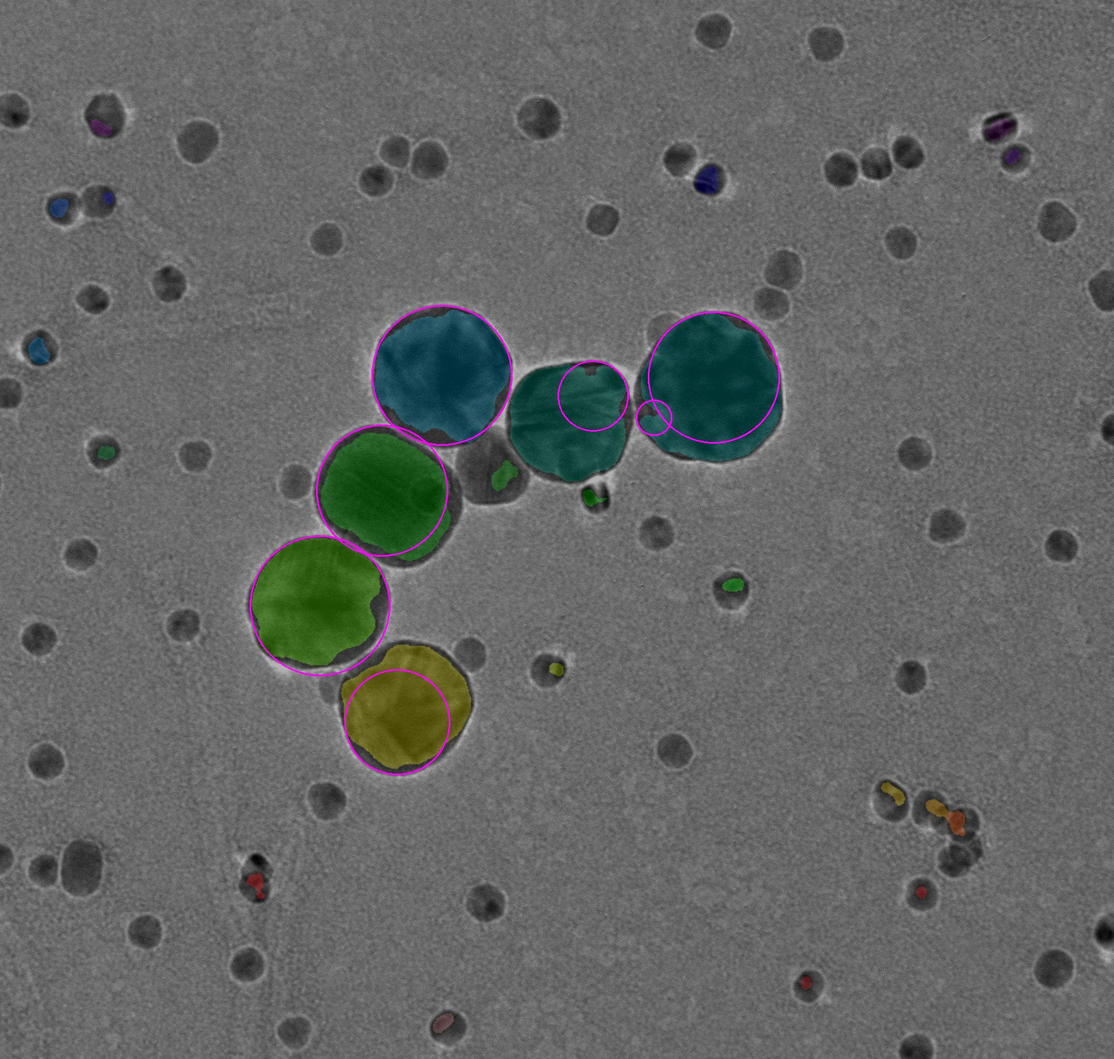
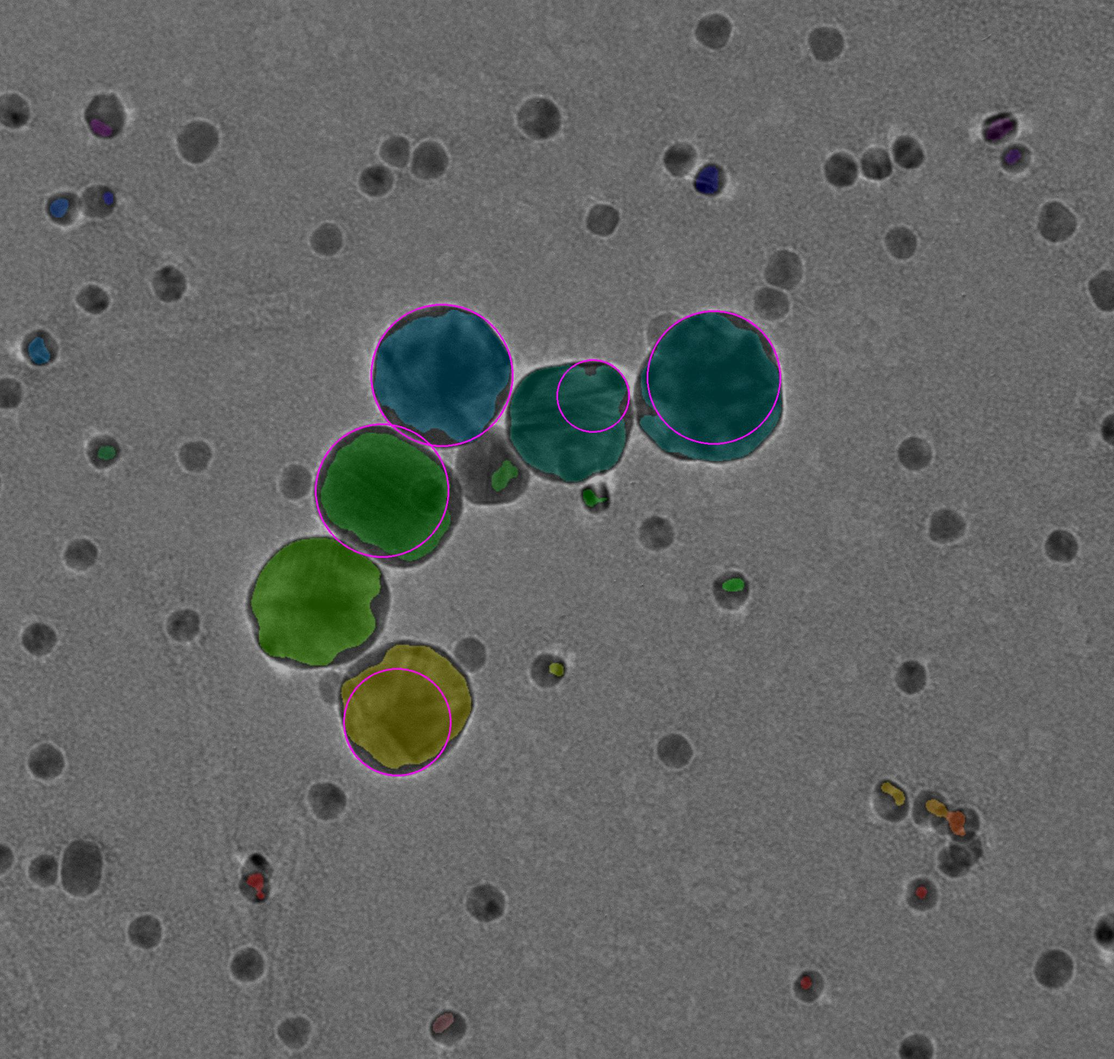
pixel size in hough transform

diff --git a/img_fcn.py b/img_fcn.py
@@ -384,8 +384,8 @@ def hough_segmentation(img, pixel_size, np_type):
     """
     canny_edge = canny(img, sigma=2)
 
-    start = max(10, 5 / pixel_size)
-    end = min(100, 50 / pixel_size)
+    start = 10 / pixel_size
+    end = 100 / pixel_size
     min_dist = 10/pixel_size
     hough_radii = np.arange(start, end, 2)
     hough_res = hough_circle(canny_edge, hough_radii)
@@ -444,9 +444,7 @@ def filter_circles(gray, circles, area):
         list: list with tuples with center
                         indices and radius of circles
     """
-    print('before: ', circles)
     circles = inside_circles(circles)
-    print('after: ', circles)
 
     dims = gray.shape
     thresh = threshold_minimum(gray)
